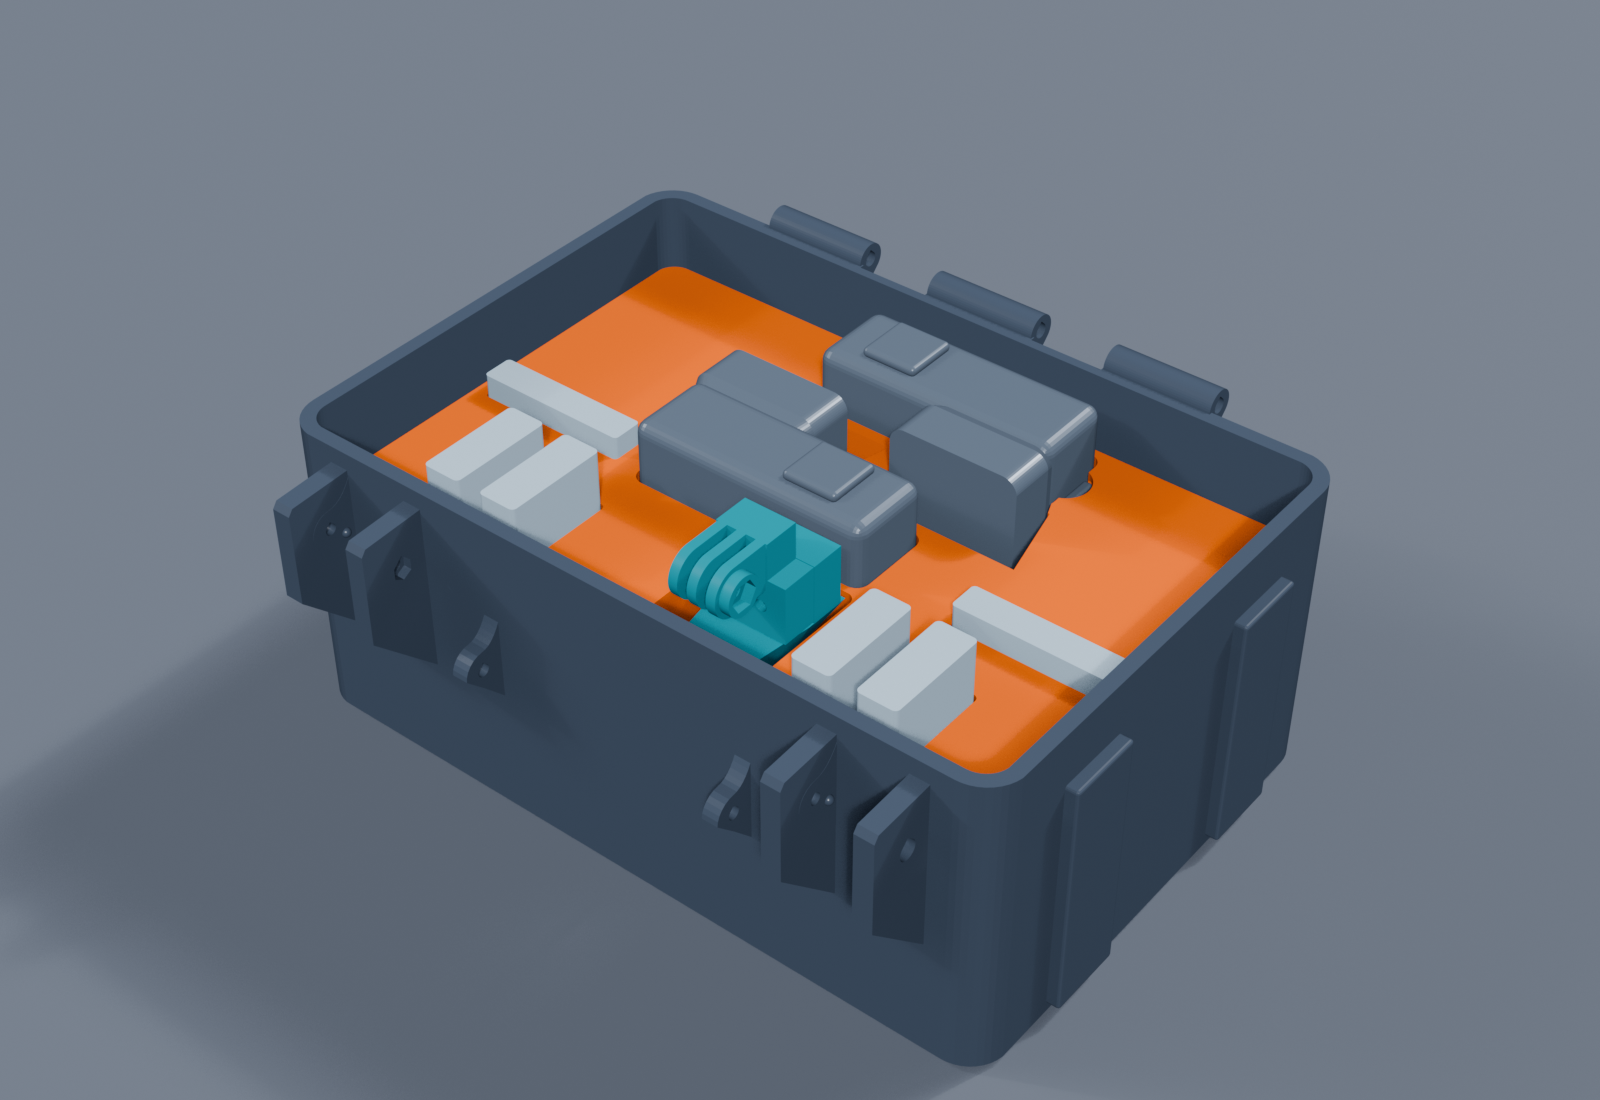
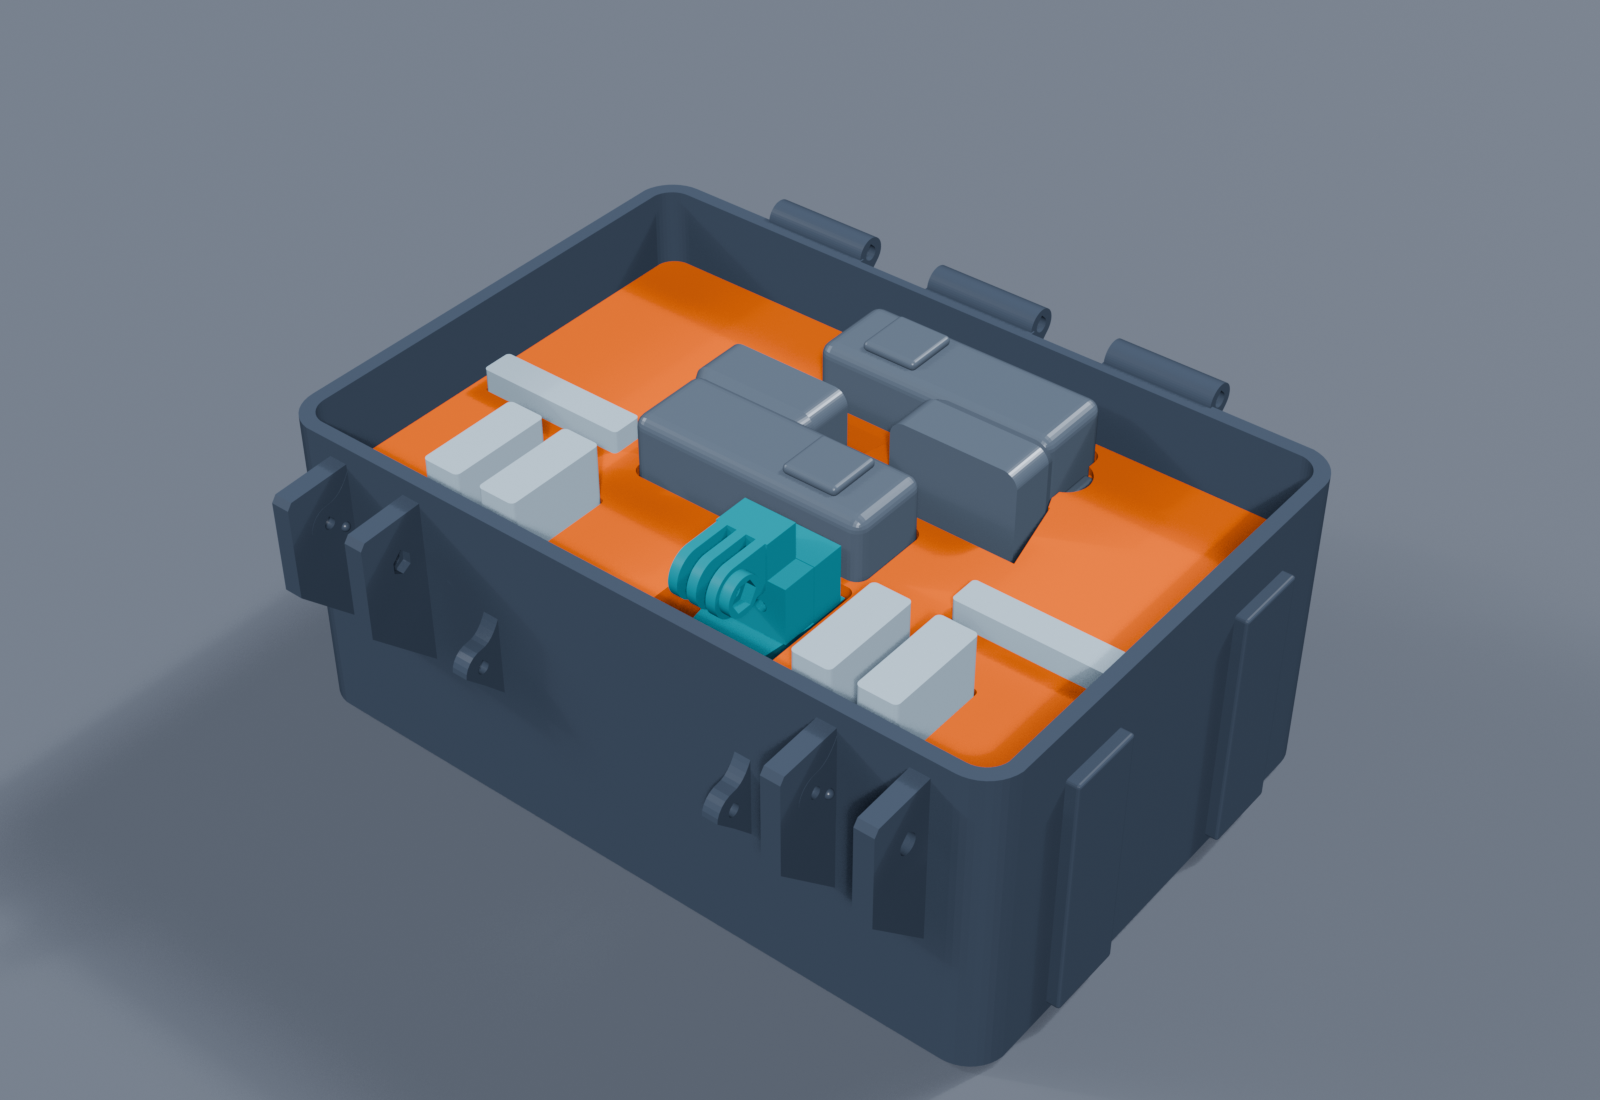
Fit 27 mm padded fans in field case

diff --git a/models3d/mission1-field-case/mission1_field_case_blender.py b/models3d/mission1-field-case/mission1_field_case_blender.py
@@ -8,7 +8,7 @@ from disk.  The default kit holds:
 * four MISSION 1 Enduro 2 / HERO13-format batteries, terminal end downward,
 * two shallow flat pockets for the removable camera battery-cage doors,
 * a lower TPU cradle for the assembled parametric dual-80 mm-fan holder and
-  its installed 80 x 80 x 25 mm fans,
+  its installed 80 x 80 x 27 mm padded fans,
 * a removable upper TPU equipment tray and a one-way-keyed TPU lid pad,
 * a hollow TPU dust/splash gasket that prints into the lid by default, two
   source-derived two-piece Pelican latch
@@ -241,21 +241,18 @@ BASE_FLOOR_THICKNESS = 3.2
 # matching lid-pad relief.
 FAN_STORAGE_COUNT = 2
 FAN_STORAGE_SIZE_MM = 80.0
-FAN_STORAGE_DEPTH_MM = 25.0
+FAN_STORAGE_PAD_ALLOWANCE_MM = 2.0
 FAN_STORAGE_PLAN_CLEARANCE = 1.0
 FAN_CRADLE_HEIGHT = 6.0
 FAN_CRADLE_FLOOR_THICKNESS = 3.0
 FAN_CRADLE_INSTALLED_Z = BASE_FLOOR_THICKNESS
 FAN_BODY_TOP_CLEARANCE = 2.0
 FAN_ARM_RIGID_LID_CLEARANCE = 1.0
-EQUIPMENT_TRAY_INSTALLED_Z = 37.0
+EQUIPMENT_TRAY_Z_INCREMENT = 0.5
 EQUIPMENT_TRAY_LEDGE_THICKNESS = 4.0
 EQUIPMENT_TRAY_LEDGE_SUPPORT_WIDTH = 5.0
 LEGACY_BASE_HEIGHT = 62.0
 LEGACY_EQUIPMENT_TRAY_INSTALLED_Z = BASE_FLOOR_THICKNESS
-BASE_HEIGHT = LEGACY_BASE_HEIGHT + (
-    EQUIPMENT_TRAY_INSTALLED_Z - LEGACY_EQUIPMENT_TRAY_INSTALLED_Z
-)
 
 LID_PLATE_THICKNESS = 4.0
 LID_WALL_HEIGHT = 11.0
@@ -305,6 +302,11 @@ EQUIPMENT_TRAY_LIFT_NOTCH_DEPTH = 18.0
 EQUIPMENT_TRAY_LIFT_NOTCH_X_CENTERS = (-96.0, 96.0)
 
 
+def padded_fan_storage_depth(fan):
+    """Return the installed fan depth including front/rear Noctua pads."""
+    return fan["depth"] + FAN_STORAGE_PAD_ALLOWANCE_MM
+
+
 def dual_fan_storage_geometry():
     """Return the configured holder/fan envelope and cradle contact bounds."""
     dual_fan.apply_material_profile()
@@ -331,7 +333,7 @@ def dual_fan_storage_geometry():
         fan_y1,
         min(
             adapter_pivot_z - dual_fan.GOPRO_PRONG_RADIUS,
-            *(grill_z0 - fan["depth"] for fan in fan_specs),
+            *(grill_z0 - padded_fan_storage_depth(fan) for fan in fan_specs),
         ),
         dual_fan.attachment_plane_z(),
     )
@@ -390,8 +392,15 @@ FAN_STORAGE_TRANSLATION_Z = (
 FAN_GRILL_INSTALLED_SOURCE_Z0 = dual_fan.fan_grill_z_bounds()[0]
 FAN_BODY_INSTALLED_TOP_Z = max(
     FAN_STORAGE_TRANSLATION_Z
-    - (FAN_GRILL_INSTALLED_SOURCE_Z0 - fan["depth"])
+    - (FAN_GRILL_INSTALLED_SOURCE_Z0 - padded_fan_storage_depth(fan))
     for fan in DUAL_FAN_STORAGE["fan_specs"]
+)
+EQUIPMENT_TRAY_INSTALLED_Z = EQUIPMENT_TRAY_Z_INCREMENT * math.ceil(
+    (FAN_BODY_INSTALLED_TOP_Z + FAN_BODY_TOP_CLEARANCE)
+    / EQUIPMENT_TRAY_Z_INCREMENT
+)
+BASE_HEIGHT = LEGACY_BASE_HEIGHT + (
+    EQUIPMENT_TRAY_INSTALLED_Z - LEGACY_EQUIPMENT_TRAY_INSTALLED_Z
 )
 
 # Exact reference slicing shows that only this compact front-center arm region
@@ -3385,9 +3394,10 @@ def validate_configuration() -> None:
         dual_fan.MATERIAL_MODE == "TPU"
         and dual_fan.FAN_COUNT == FAN_STORAGE_COUNT
         and len(fan_specs) == FAN_STORAGE_COUNT
+        and math.isclose(FAN_STORAGE_PAD_ALLOWANCE_MM, 2.0, abs_tol=1e-6)
         and all(
             math.isclose(fan["size"], FAN_STORAGE_SIZE_MM, abs_tol=1e-6)
-            and math.isclose(fan["depth"], FAN_STORAGE_DEPTH_MM, abs_tol=1e-6)
+            and fan["depth"] > 0.0
             for fan in fan_specs
         )
         and all(
@@ -3405,8 +3415,8 @@ def validate_configuration() -> None:
     ):
         raise ValueError(
             "Fan storage requires the complete default TPU dual-80 mm rear-grille "
-            "holder, zero fan rotations, dropped route, 25 mm fans, and attached "
-            "3-prong adapter"
+            "holder, zero fan rotations, dropped route, positive configured fan "
+            "depths with 2 mm total pad allowance, and attached 3-prong adapter"
         )
     cavity_x0, cavity_x1, cavity_y0, cavity_y1 = DUAL_FAN_STORAGE["cavity_bounds"]
     cradle_walls = (
@@ -3426,6 +3436,8 @@ def validate_configuration() -> None:
     fan_body_vertical_clearance = (
         EQUIPMENT_TRAY_INSTALLED_Z - FAN_BODY_INSTALLED_TOP_Z
     )
+    if not 0.1 <= EQUIPMENT_TRAY_Z_INCREMENT <= 1.0:
+        raise ValueError("Upper-tray Z increment must remain between 0.1 and 1 mm")
     if fan_body_vertical_clearance < FAN_BODY_TOP_CLEARANCE:
         raise ValueError(
             "Upper equipment tray does not clear the installed fan bodies"
@@ -4617,7 +4629,11 @@ def validate_configuration() -> None:
         f"lid_pad_hood_relief={LID_LENS_HOOD_RELIEF_DEPTH:.2f} "
         f"fan_cradle_installed_z={FAN_CRADLE_INSTALLED_Z:.2f} "
         f"equipment_tray_installed_z={EQUIPMENT_TRAY_INSTALLED_Z:.2f} "
+        f"equipment_tray_z_increment={EQUIPMENT_TRAY_Z_INCREMENT:.2f} "
         f"fan_storage={fan_width:.2f}x{fan_depth:.2f}x{fan_height:.2f} "
+        f"fan_nominal_depth={max(fan['depth'] for fan in fan_specs):.2f} "
+        f"fan_padded_depth="
+        f"{max(padded_fan_storage_depth(fan) for fan in fan_specs):.2f} "
         f"fan_cavity={cavity_x1 - cavity_x0:.2f}x"
         f"{cavity_y1 - cavity_y0:.2f}x"
         f"{FAN_CRADLE_HEIGHT - FAN_CRADLE_FLOOR_THICKNESS:.2f} "
@@ -9217,14 +9233,15 @@ def create_reference_mockups(materials, parts):
         objects.append(obj)
     grill_z0, _grill_z1 = dual_fan.fan_grill_z_bounds()
     for fan in DUAL_FAN_STORAGE["fan_specs"]:
+        installed_depth = padded_fan_storage_depth(fan)
         fan_center = (
             -fan["center_x"] + placement_x,
             placement_y,
-            storage_translation_z - (grill_z0 - fan["depth"] / 2.0),
+            storage_translation_z - (grill_z0 - installed_depth / 2.0),
         )
         mockup = add_rounded_box(
             f"REFERENCE_ONLY_Installed_{fan['size']:.0f}mm_Fan_{fan['index']}",
-            (fan["size"], fan["size"], fan["depth"]),
+            (fan["size"], fan["size"], installed_depth),
             fan_center,
             bevel=2.0,
         )

diff --git a/models3d/mission1-field-case/mission1_field_case_printing.md b/models3d/mission1-field-case/mission1_field_case_printing.md
@@ -3,8 +3,9 @@
 `mission1_field_case_blender.py` creates every printable part of a
 rugged case for two GoPro MISSION 1 cameras, four Enduro 2/HERO13-format
 batteries, and the assembled parametric dual-fan holder with two installed
-80 x 80 x 25 mm fans. It reads no STL during generation, and every part fits
-within a 250 x 250 mm build area. The rigid shell is 234 x 158 x 95.8 mm;
+80 x 80 x 25 mm nominal fans whose front/rear Noctua pads produce a 27 mm
+installed thickness. It reads no STL during generation, and every part fits
+within a 250 x 250 mm build area. The rigid shell is 234 x 158 x 97.8 mm;
 its largest print-bed footprints are the 244 x 187.8 mm lid and the
 241.6 x 187.8 mm base. The latch lever and moving hook are derived from the
 mechanism in the user-supplied `pelican_case_blender_2.9.blend`; their processed
@@ -48,21 +49,35 @@ The stored default dual-fan assembly is 212.5 x 129.71 x 95.57 mm including
 the holder, attached three-prong GoPro adapter, and installed fans. Place the
 complete assembly rear-grille-down, with its adapter projecting toward the
 front/latch side of the case. The two grille/frame contact regions seat in the
-shallow pocket. The 80 mm fan bodies end at approximately Z = 34.7 mm, while
-only the routed support arm and attached adapter continue upward. This matches
-the holder's supported print orientation and avoids a deep negative mold
-around the adapter. The complete assembly reaches approximately Z = 101.77 mm.
+shallow pocket. The padded 80 mm fan bodies end at approximately Z = 36.7 mm,
+while only the routed support arm and attached adapter continue upward. This
+matches the holder's supported print orientation and avoids a deep negative
+mold around the adapter. The complete assembly reaches approximately
+Z = 101.77 mm.
 
 `mission1_field_case_upper_equipment_tray_tpu.stl` is the removable
-223 x 147 x 35 mm upper tier. Its assembled bottom is at Z = 37 mm on two
-rigid side rails, 2.3 mm above the installed fan bodies. A localized rounded
-39.5 x 47.5 mm opening lets the routed arm pass through the tray; the matching
-opening in the inverted TPU lid pad lets the arm occupy otherwise-unused tray
-and pad height while preserving 1.03 mm clearance from the rigid lid plate.
+223 x 147 x 35 mm upper tier. Its assembled bottom is at Z = 39 mm on two
+rigid side rails, 2.3 mm above the padded installed fan bodies. A localized
+rounded 39.5 x 47.5 mm opening lets the routed arm pass through the tray; the
+matching opening in the inverted TPU lid pad lets the arm occupy
+otherwise-unused tray and pad height while preserving 3.03 mm clearance from
+the rigid lid plate.
 The tray has 1 mm clearance per side, twice the original clearance, to reduce
 friction against the shell. Two 18 x 18 mm scallops open through its front edge
 for a direct two-finger lift. The former rectangular and stepped generic
 storage compartments were removed to make room for the compact stack.
+
+The padded fan-body depth is derived from the dual-fan generator's current
+nominal fan depth plus the 2 mm storage allowance for the Noctua pads. The
+upper-tray elevation rounds up to the next 0.5 mm and the shell height follows
+it, preserving the configured 2 mm minimum fan-body clearance when the nominal
+depth changes. Plan dimensions and the localized arm opening remain bounded
+case-design constraints; incompatible fan counts, sizes, rotations, or
+routed-arm geometry are rejected by validation rather than silently producing
+an oversized part.
+The production Make target constructs the current generated holder, adapter,
+and padded fan references and requires zero exact collision with the base,
+cradle, upper tray, and inverted lid pad before exporting the printable parts.
 
 The upper tray retains two independent camera pockets cut from the local
 procedural MISSION 1 body, including its offset lens housing, controls, and
@@ -91,10 +106,10 @@ is closed.
 
 With `BUILD_REFERENCE_MOCKUPS = True`, the script also creates the exact
 generated dual-fan holder and attached three-prong adapter, two installed
-80 x 80 x 25 mm fan solids, four procedural 33.5 x 12.5 x 40.56 mm battery
-solids, and two procedural 50 x 10 x 18 mm door solids for visual inspection.
-They are reference-only scene objects, not additional STL dependencies or
-print outputs.
+80 x 80 x 27 mm padded fan solids, four procedural 33.5 x 12.5 x 40.56 mm
+battery solids, and two procedural 50 x 10 x 18 mm door solids for visual
+inspection. They are reference-only scene objects, not additional STL
+dependencies or print outputs.
 
 ## Lid logo
 
